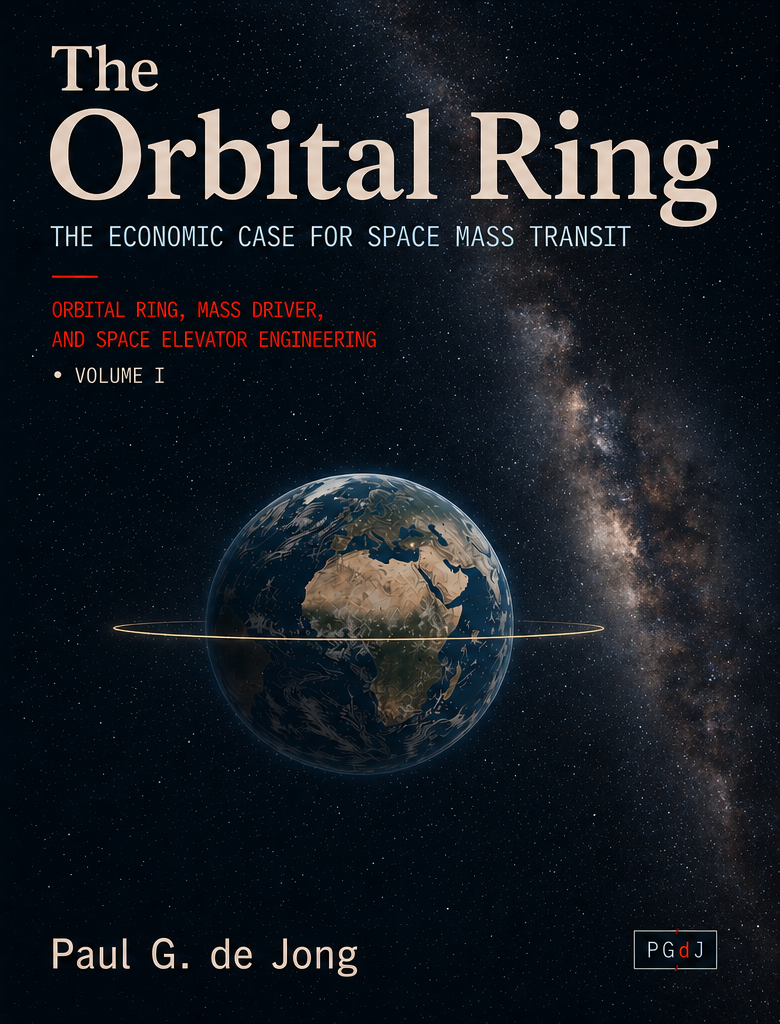
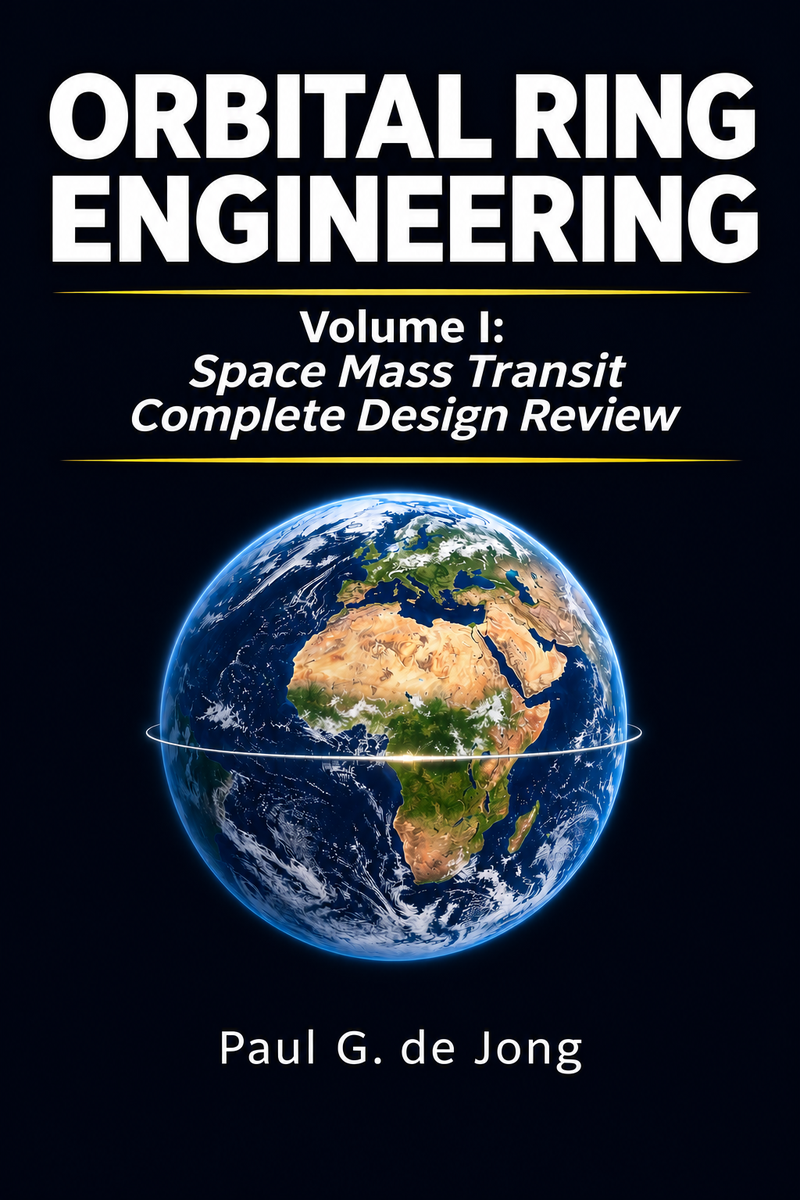
Volume I cover mockup on the site; the economic case's cover file renamed why-space-cover.png
static/images/covers/orbital-ring-vol-1-cover.png is now the Volume I (design review) cover, from Vol_III/Cover/Best_Design_Cover_03.png resized to 800 x 1200 like the first-edition cover; a mockup to be replaced by the professional file under the same name. The image that file held (the economic case) is static/images/covers/why-space-cover.png. series.json: ast-t1 and its Volume I carry the new cover, ast-c1 (Why Space) carries why-space-cover.png. templates/pages/home.html hero uses why-space-cover.png; templates/pages/volume-detail.html shows vol.cover_image when a volume has one, else the placeholder.

diff --git a/templates/pages/volume-detail.html b/templates/pages/volume-detail.html
@@ -10,9 +10,13 @@
 
   <section class="home-launch">
     <div class="cover-wrap">
-            <div class="cover-placeholder">VOL {{ vol.number | roman }}</div>
+      {%- if vol.cover_image %}
+      <img class="book-cover" src="{{ vol.cover_image }}" alt="Cover of {{ book.title }}, Volume {{ vol.number | roman }}: {{ vol.title }}, by Paul G. de Jong">
+      {%- else %}
+      <div class="cover-placeholder">VOL {{ vol.number | roman }}</div>
       <div class="cover-caption"><span class="pill">In progress</span>Cover and ISBNs to come</div>
-          </div>
+      {%- endif %}
+    </div>
 
     <div class="hero-body">
       <div class="launch-meta">

diff --git a/templates/pages/home.html b/templates/pages/home.html
@@ -3,7 +3,7 @@
 {% block content %}<section class="home-launch">
   <div class="cover-wrap">
     <a href="/series/technical/why-space/">
-      <img class="book-cover" src="/images/covers/orbital-ring-vol-1-cover.png" alt="Cover of Why Space, the economic case for space mass transit, by Paul G. de Jong">
+      <img class="book-cover" src="/images/covers/why-space-cover.png" alt="Cover of Why Space, the economic case for space mass transit, by Paul G. de Jong">
     </a>
   </div>
 
